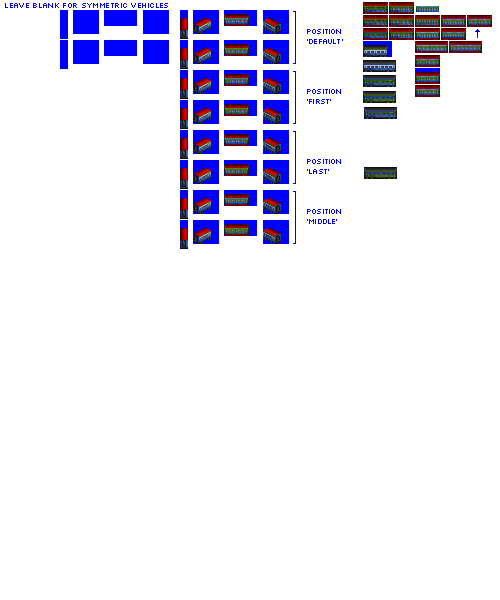
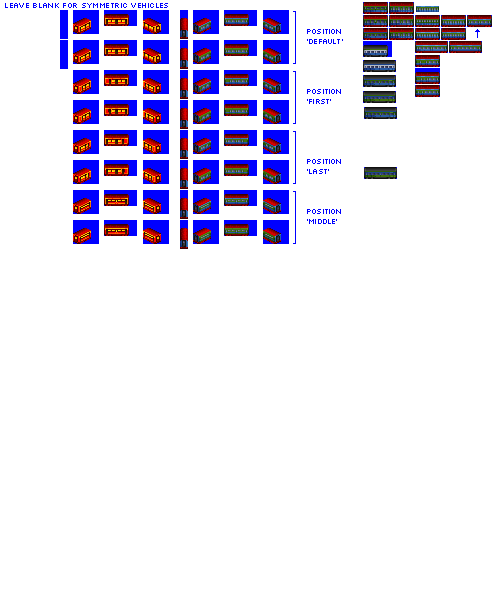
Change: sprites complete for gen 4A pax car

diff --git a/src/vehicles/passenger_cars.py b/src/vehicles/passenger_cars.py
@@ -51,7 +51,8 @@ def main():
     consist = PassengerCarConsist(roster='pony',
                                   base_numeric_id=3110,
                                   gen=4,
-                                  subtype='A')
+                                  subtype='A',
+                                  sprites_complete=True)
 
     consist.add_unit(type=PaxMailCar,
                      capacity=50,
